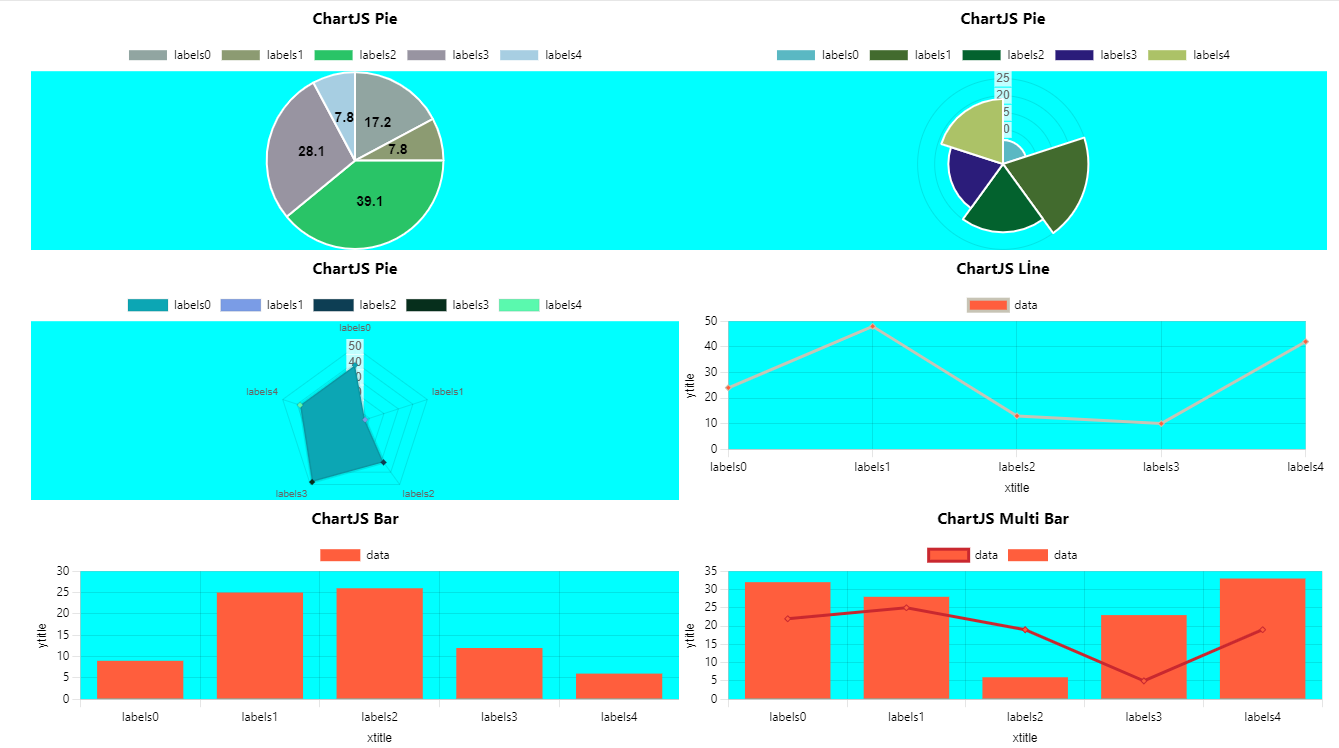
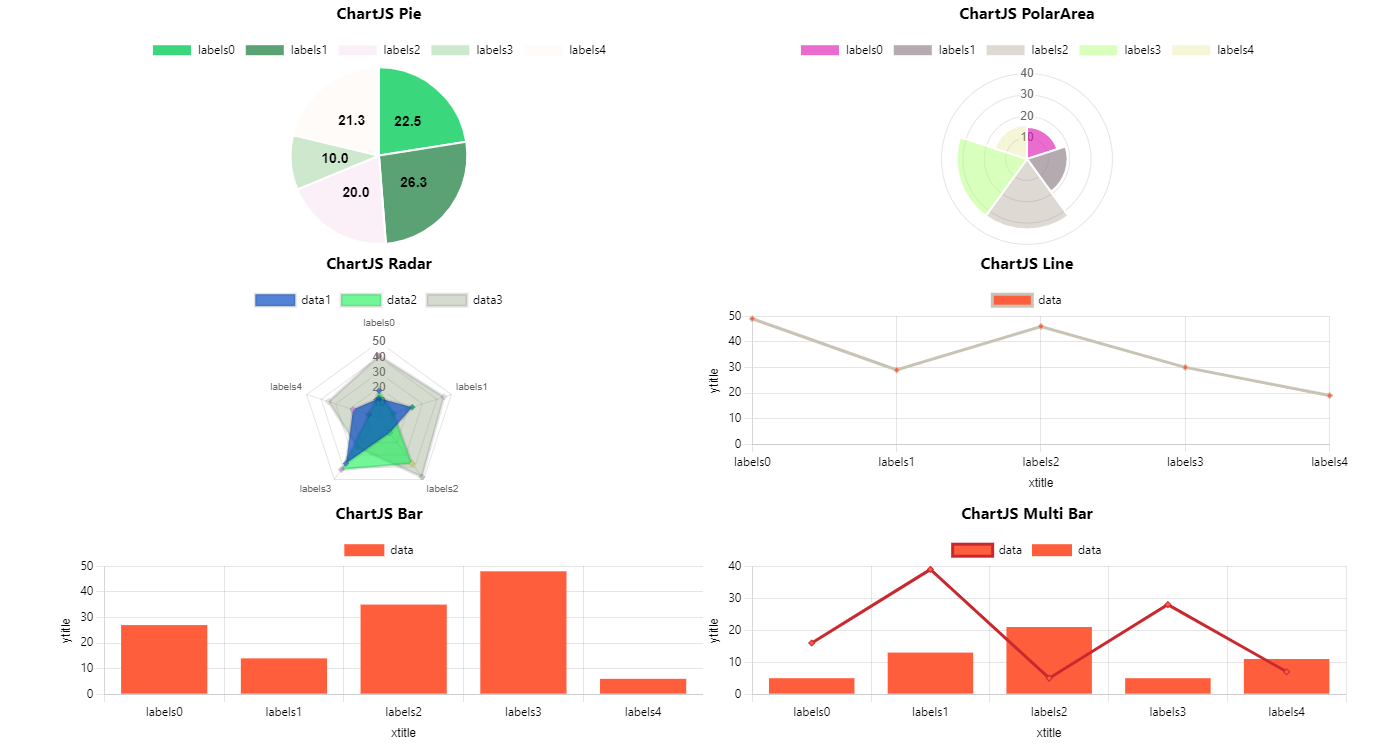
edit reademe

diff --git a/src/App.js b/src/App.js
@@ -4,7 +4,7 @@ import { ChartJS,ChartJSNode} from './chartjs-react-js';
 const getRandomColor=()=>{
   var letters = '0123456789ABCDEF';
   var color = '#';
-  for (var i = 0; i < 6; i++) {
+  for (var i = 0; i < 8; i++) {
     color += letters[Math.floor(Math.random() * 16)];
   }
   return color;
@@ -77,7 +77,7 @@ const dataViews=[
            position="top"
            type="pie"
            labels={RandomData(5, 50, 5).labels}
-          backgroundColor={Colors.CAMGOBEGI}
+           backgroundColor={Colors.TRANSPARENT}
          >
         
            <ChartJSNode
@@ -98,11 +98,11 @@ const dataViews=[
            pointText={true}
            yAxesmin={0}
            indexAxis="x"
-           title="ChartJS Pie"
+           title="ChartJS PolarArea"
            position="top"
            type="polarArea"
            labels={RandomData(5, 50, 5).labels}
-          backgroundColor={Colors.CAMGOBEGI}
+          backgroundColor={Colors.TRANSPARENT}
          >
         
            <ChartJSNode
@@ -122,11 +122,11 @@ const dataViews=[
            pointText={true}
            yAxesmin={0}
            indexAxis="x"
-           title="ChartJS Pie"
+           title="ChartJS Radar"
            position="top"
            type="radar"
            labels={RandomData(5, 50, 5).labels}
-          backgroundColor={Colors.CAMGOBEGI}
+          backgroundColor={Colors.TRANSPARENT}
          >
         
            <ChartJSNode
@@ -136,9 +136,26 @@ const dataViews=[
              rotation={45}
              pointStyle="rect"
              type="radar"
-             label="data"
+             label="data1"
            />
-          
+            <ChartJSNode
+             order={1}
+             data={RandomData(5, 50, 5).data}
+             backgroundColor={RandomData(5, 50, 5).colors}
+             rotation={45}
+             pointStyle="rect"
+             type="radar"
+             label="data2"
+           />
+            <ChartJSNode
+             order={2}
+             data={RandomData(5, 50, 5).data}
+             backgroundColor={RandomData(5, 50, 5).colors}
+             rotation={45}
+             pointStyle="rect"
+             type="radar"
+             label="data3"
+           />
          </ChartJS>
          <ChartJS
            width="45vw"
@@ -147,11 +164,11 @@ const dataViews=[
            indexAxis="x"
            xtitle="xtitle"
            ytitle="ytitle"
-           title="ChartJS Lİne"
+           title="ChartJS Line"
            position="top"
            type="line"
            labels={RandomData(5, 50, 5).labels}
-           backgroundColor={Colors.CAMGOBEGI}
+           backgroundColor={Colors.TRANSPARENT}
          >
         
            <ChartJSNode
@@ -178,7 +195,7 @@ const dataViews=[
            position="top"
            type="bar"
            labels={RandomData(5, 50, 5).labels}
-           backgroundColor={Colors.CAMGOBEGI}
+           backgroundColor={Colors.TRANSPARENT}
          >
         
            <ChartJSNode
@@ -205,7 +222,7 @@ const dataViews=[
            position="top"
            type="bar"
            labels={RandomData(5, 50, 5).labels}
-           backgroundColor={Colors.CAMGOBEGI}
+           backgroundColor={Colors.TRANSPARENT}
          >
         
            <ChartJSNode
@@ -241,7 +258,7 @@ const dataViews=[
            position="top"
            type="bar"
            labels={RandomData(5, 50, 5).labels}
-           backgroundColor={Colors.CAMGOBEGI}
+           backgroundColor={Colors.TRANSPARENT}
 
          >
         

diff --git a/README.md b/README.md
@@ -1,5 +1,6 @@
 # chartjs reactjs 
   
+
   npm i chartjs-react-js
   
   Include [chart.js](https://www.npmjs.com/package/chart.js) and [React](https://www.npmjs.com/package/react) as dependencies.
@@ -17,7 +18,7 @@
  ```jsx
  import { ChartJS,ChartJSNode} from './chartjs-react-js';
 
-    <div style={{
+   <div style={{
        display: "flex",
        flexDirection: "row",
        flexWrap: "wrap",
@@ -33,7 +34,7 @@
            position="top"
            type="pie"
            labels={RandomData(5, 50, 5).labels}
-          backgroundColor={Colors.CAMGOBEGI}
+           backgroundColor={Colors.TRANSPARENT}
          >
         
            <ChartJSNode
@@ -54,11 +55,11 @@
            pointText={true}
            yAxesmin={0}
            indexAxis="x"
-           title="ChartJS Pie"
+           title="ChartJS PolarArea"
            position="top"
            type="polarArea"
            labels={RandomData(5, 50, 5).labels}
-          backgroundColor={Colors.CAMGOBEGI}
+          backgroundColor={Colors.TRANSPARENT}
          >
         
            <ChartJSNode
@@ -78,11 +79,11 @@
            pointText={true}
            yAxesmin={0}
            indexAxis="x"
-           title="ChartJS Pie"
+           title="ChartJS Radar"
            position="top"
            type="radar"
            labels={RandomData(5, 50, 5).labels}
-          backgroundColor={Colors.CAMGOBEGI}
+          backgroundColor={Colors.TRANSPARENT}
          >
         
            <ChartJSNode
@@ -92,9 +93,26 @@
              rotation={45}
              pointStyle="rect"
              type="radar"
-             label="data"
+             label="data1"
            />
-          
+            <ChartJSNode
+             order={1}
+             data={RandomData(5, 50, 5).data}
+             backgroundColor={RandomData(5, 50, 5).colors}
+             rotation={45}
+             pointStyle="rect"
+             type="radar"
+             label="data2"
+           />
+            <ChartJSNode
+             order={2}
+             data={RandomData(5, 50, 5).data}
+             backgroundColor={RandomData(5, 50, 5).colors}
+             rotation={45}
+             pointStyle="rect"
+             type="radar"
+             label="data3"
+           />
          </ChartJS>
          <ChartJS
            width="45vw"
@@ -103,11 +121,11 @@
            indexAxis="x"
            xtitle="xtitle"
            ytitle="ytitle"
-           title="ChartJS Lİne"
+           title="ChartJS Line"
            position="top"
            type="line"
            labels={RandomData(5, 50, 5).labels}
-           backgroundColor={Colors.CAMGOBEGI}
+           backgroundColor={Colors.TRANSPARENT}
          >
         
            <ChartJSNode
@@ -134,7 +152,7 @@
            position="top"
            type="bar"
            labels={RandomData(5, 50, 5).labels}
-           backgroundColor={Colors.CAMGOBEGI}
+           backgroundColor={Colors.TRANSPARENT}
          >
         
            <ChartJSNode
@@ -161,7 +179,7 @@
            position="top"
            type="bar"
            labels={RandomData(5, 50, 5).labels}
-           backgroundColor={Colors.CAMGOBEGI}
+           backgroundColor={Colors.TRANSPARENT}
          >
         
            <ChartJSNode
@@ -197,7 +215,7 @@
            position="top"
            type="bar"
            labels={RandomData(5, 50, 5).labels}
-           backgroundColor={Colors.CAMGOBEGI}
+           backgroundColor={Colors.TRANSPARENT}
 
          >
         

diff --git a/src/chartjs-react-js/README.md b/src/chartjs-react-js/README.md
@@ -11,7 +11,7 @@
  ```jsx
  import { ChartJS,ChartJSNode} from './chartjs-react-js';
 
-    <div style={{
+      <div style={{
        display: "flex",
        flexDirection: "row",
        flexWrap: "wrap",
@@ -27,7 +27,7 @@
            position="top"
            type="pie"
            labels={RandomData(5, 50, 5).labels}
-          backgroundColor={Colors.CAMGOBEGI}
+           backgroundColor={Colors.TRANSPARENT}
          >
         
            <ChartJSNode
@@ -48,11 +48,11 @@
            pointText={true}
            yAxesmin={0}
            indexAxis="x"
-           title="ChartJS Pie"
+           title="ChartJS PolarArea"
            position="top"
            type="polarArea"
            labels={RandomData(5, 50, 5).labels}
-          backgroundColor={Colors.CAMGOBEGI}
+          backgroundColor={Colors.TRANSPARENT}
          >
         
            <ChartJSNode
@@ -72,11 +72,11 @@
            pointText={true}
            yAxesmin={0}
            indexAxis="x"
-           title="ChartJS Pie"
+           title="ChartJS Radar"
            position="top"
            type="radar"
            labels={RandomData(5, 50, 5).labels}
-          backgroundColor={Colors.CAMGOBEGI}
+          backgroundColor={Colors.TRANSPARENT}
          >
         
            <ChartJSNode
@@ -86,9 +86,26 @@
              rotation={45}
              pointStyle="rect"
              type="radar"
-             label="data"
+             label="data1"
            />
-          
+            <ChartJSNode
+             order={1}
+             data={RandomData(5, 50, 5).data}
+             backgroundColor={RandomData(5, 50, 5).colors}
+             rotation={45}
+             pointStyle="rect"
+             type="radar"
+             label="data2"
+           />
+            <ChartJSNode
+             order={2}
+             data={RandomData(5, 50, 5).data}
+             backgroundColor={RandomData(5, 50, 5).colors}
+             rotation={45}
+             pointStyle="rect"
+             type="radar"
+             label="data3"
+           />
          </ChartJS>
          <ChartJS
            width="45vw"
@@ -97,11 +114,11 @@
            indexAxis="x"
            xtitle="xtitle"
            ytitle="ytitle"
-           title="ChartJS Lİne"
+           title="ChartJS Line"
            position="top"
            type="line"
            labels={RandomData(5, 50, 5).labels}
-           backgroundColor={Colors.CAMGOBEGI}
+           backgroundColor={Colors.TRANSPARENT}
          >
         
            <ChartJSNode
@@ -128,7 +145,7 @@
            position="top"
            type="bar"
            labels={RandomData(5, 50, 5).labels}
-           backgroundColor={Colors.CAMGOBEGI}
+           backgroundColor={Colors.TRANSPARENT}
          >
         
            <ChartJSNode
@@ -155,7 +172,7 @@
            position="top"
            type="bar"
            labels={RandomData(5, 50, 5).labels}
-           backgroundColor={Colors.CAMGOBEGI}
+           backgroundColor={Colors.TRANSPARENT}
          >
         
            <ChartJSNode
@@ -191,7 +208,7 @@
            position="top"
            type="bar"
            labels={RandomData(5, 50, 5).labels}
-           backgroundColor={Colors.CAMGOBEGI}
+           backgroundColor={Colors.TRANSPARENT}
 
          >
         
